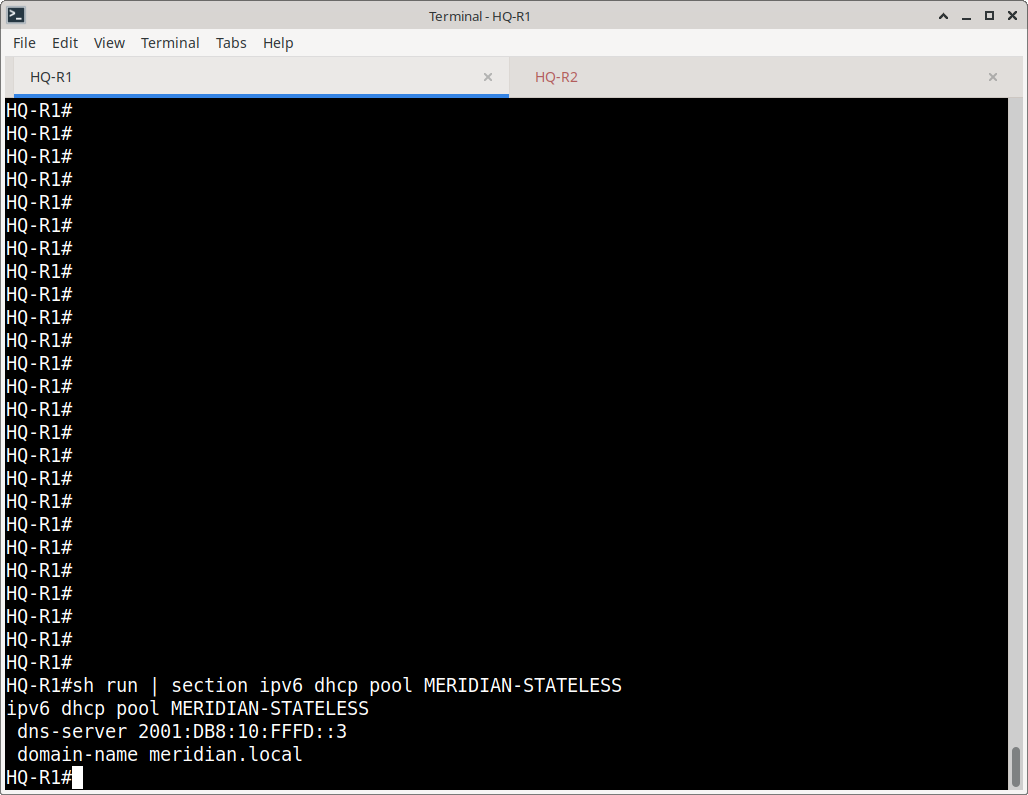
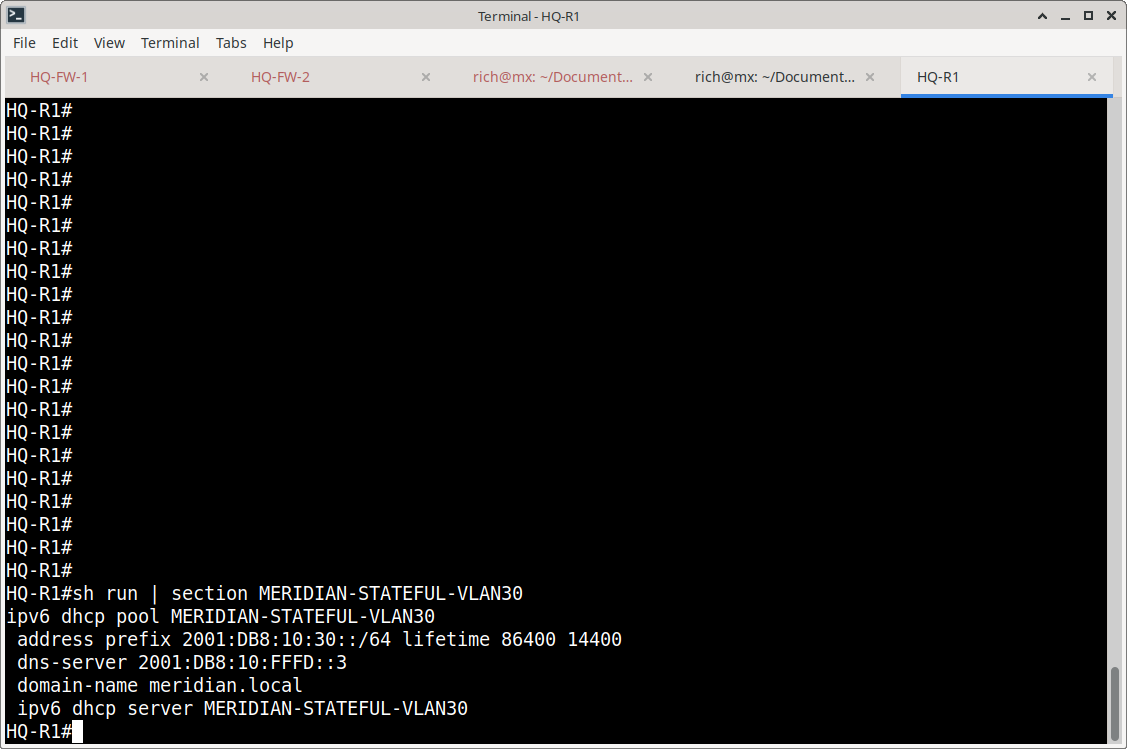
“README”

diff --git a/IPv6 (Dual-Stack)/README.md b/IPv6 (Dual-Stack)/README.md
@@ -1,7 +1,5 @@
 # Meridian Financial Services — Enterprise IPv6 Dual-Stack Implementation
 
-> **Portfolio Lab Project.** This documentation details the manual design, configuration, and troubleshooting of an enterprise-wide IPv6 migration within the fictional "Meridian Financial Services" multi-site topology (PNETLab). 
-
 ## Summary
 
 The objective of this project was to extend Meridian's existing IPv4 enterprise network (HQ, Chicago, Dallas, Miami, and Ashburn DR) to support IPv6 using a dual-stack approach. 
@@ -22,18 +20,18 @@ The implementation spans a multi-region enterprise topology:
 ---
 
 ## What was built
- 
-| Area | Summary | Status |
-|---|---|---|
-| Addressing | Site-coded `/48` per site, `/64` per VLAN, `/128` loopbacks | Working; spreadsheet/Nautobot still to reconcile |
-| OSPFv3 | Process 10, FULL adjacencies on HQ-EDGE-1 and HQ-FW-1; client VLANs passive | Neighbors observed; cross-site reachability to capture |
-| IPv6 HSRP | HQ-R1 (priority 110, preempt) / HQ-R2 on VLANs 10-70, virtual link-local gateways (e.g. `FE80::30` on VLAN 30) | Configured; failover test to capture |
-| SLAAC / RA | RA interval 30s, router lifetime 90s, prefix 86400/14400 on HQ VLANs | Working; packet captures done |
-| Stateless DHCPv6 | `MERIDIAN-STATELESS` on HQ-R1 (O flag): SLAAC address plus DNS/domain via Information-request/Reply | Working; captures done |
-| Stateful DHCPv6 | `MERIDIAN-STATEFUL-VLAN30` on HQ VLAN 30 (M flag, `no-autoconfig`) | Client lease obtained |
-| Branch DHCPv6 relay | VLAN 30 relays to HQ-R1; per-site pools selected by `link-address` | Relay forwarding confirmed; lease end-to-end still to confirm (see troubleshooting) |
-| IPv6 ACL | `MERIDIAN-VLAN30-IN` on VLAN 30 (RA deny, ICMPv6, DHCPv6, HSRP, default deny with logging) | Counters observed |
-| Duplicate Address Detection | Captured and explained | Done |
+
+| Area | Summary |
+|---|---|
+| Addressing | Site-coded `/48` per site, `/64` per VLAN, `/128` loopbacks |
+| OSPFv3 | Process 10, FULL adjacencies on HQ-EDGE-1 and HQ-FW-1; client VLANs passive |
+| IPv6 HSRP | HQ-R1 (priority 110, preempt) / HQ-R2 on VLANs 10-70, virtual link-local gateways (e.g. `FE80::30` on VLAN 30) |
+| SLAAC / RA | RA interval 30s, router lifetime 90s, prefix 86400/14400 on HQ VLANs |
+| Stateless DHCPv6 | `MERIDIAN-STATELESS` on HQ-R1 (O flag): SLAAC address plus DNS/domain via Information-request/Reply |
+| Stateful DHCPv6 | `MERIDIAN-STATEFUL-VLAN30` on HQ VLAN 30 (M flag, `no-autoconfig`) |
+| Branch DHCPv6 relay | VLAN 30 relays to HQ-R1; per-site pools selected by `link-address` |
+| IPv6 ACL | `MERIDIAN-VLAN30-IN` on VLAN 30 (RA deny, ICMPv6, DHCPv6, HSRP, default deny with logging) |
+| Duplicate Address Detection | Captured and explained |
  
 ## Addressing
  
@@ -59,7 +57,7 @@ interface FastEthernet0/0.<VLAN>
 
 **show ipv6 ospf neighbor**
 
-![Automation](screenshots/area-number.png)
+![Automation](screenshots/sh-ospf-neighbor-edge-1.png)
 
 **show ipv6 route**
 
@@ -80,11 +78,11 @@ interface FastEthernet0/0.30
  standby 130 priority 110      ! HQ-R2 uses the default (100)
  standby 130 preempt
 ```
-**HQ-R1**
+**HQ-R1: show standby brief**
 
 ![Automation](screenshots/sh-standby-brief-r1.png)
 
-**HQ-R2**
+**HQ-R2: show standby brief**
 
 ![Automation](screenshots/sh-standby-brief-r2.png)
 
@@ -136,21 +134,21 @@ The M flag plus `no-autoconfig` means clients get addresses from DHCPv6 only, no
 
 **PCAP: RA Details**
 
-![Automation](screenshots/slaac-pcap-details.png)
+![Automation](screenshots/slaac-pcap-ra-details.png)
 
 **Stateless DHCP Configuration**
 
 ![Automation](screenshots/stateless-config-r1.png)
 
-**PC obtains IP via Stateless DHCPv6**
+**PC obtains DNS Server and domain name via Stateless DHCPv6**
 
 ![ipv6](screenshots/stateless-pc-gets-config.png)
 
 **PCAP: Stateless DHCPv6 Information Requests**
 
-![ipv6](screenshots/slaac-pcap-details.png)
+![ipv6](screenshots/stateless-pcap-information-request.png)
 
-**PCAP: Stateless DHCPv6 Information Reply**
+**PCAP: Stateless DHCPv6 Information Reply Details**
 
 ![ipv6](screenshots/stateless-pcap-information-reply.png)
 
@@ -166,9 +164,7 @@ The Wireshark captures show ICMPv6 Type 135 (Neighbor Solicitation) messages sen
 
 **Tip:** The raw packet captures for SLAAC, Stateless DHCPv6, Stateful DHCPv6, and Rogue RA testing are available in the [`pcaps/`](pcaps/) directory of this repository for hands-on Wireshark analysis.
 
-**
-
-### 3. Host Provisioning (SLAAC & DHCPv6)
+### 3. Host Provisioning (DHCPv6)
 
 *   **Stateful DHCPv6:** Configured on HQ VLAN 30. The Managed-config-flag (M-flag) is set, and SLAAC is disabled (`no-autoconfig`), forcing hosts to obtain their IPv6 address entirely from the DHCPv6 server.
 
@@ -184,11 +180,11 @@ The Wireshark captures show ICMPv6 Type 135 (Neighbor Solicitation) messages sen
 
 ![Automation](screenshots/stateful-switch-config.png)
 
-**PC Successfulyl obtains IP via Stateful DHCP**
+**PC Successfully obtains IP via Stateful DHCP**
 
 ![Automation](screenshots/stateful-pc-1-gets-ip.png)
 
-**PCAP: PC Successfulyl obtains IP via Stateful DHCP**
+**PCAP: PC Successfully obtains IP via Stateful DHCP**
 
 ![Automation](screenshots/stateful-pcap-pc-gets-ip.png)
 
@@ -229,16 +225,21 @@ To connect the Meridian network to external providers, a dual-stack BGP implemen
 *   **Dual-Stack Address Families:** BGP is configured with separate `address-family ipv4` and `address-family ipv6` blocks, peering with ISP-A (AS 65001) and ISP-B (AS 65002) over both IPv4 and IPv6 transit links.
 *   **iBGP Peering:** HQ-EDGE-1 and HQ-EDGE-2 establish an iBGP session (AS 65000) using Loopback interfaces for stability, with `next-hop-self` configured for the IPv6 address family to ensure proper reachability.
 *   **Inbound Traffic Engineering:** A route-map (`ISP-A-IN`) is applied to the ISP-A neighbor to set the `local-preference` to 200. This ensures that Meridian prefers ISP-A as the primary exit and entry point for traffic.
-*   **Controlled Redistribution:** External BGP routes are carefully redistributed into the internal OSPF/OSPFv3 domain using a prefix-list (`BGP-TO-OSPF-PREFIX`) and route-map (`FILTER-BGP-INTO-OSPF`) to prevent default routes or unwanted external prefixes from flooding the internal routing table.
 
 ```cisco
 route-map ISP-A-IN permit 10
  set local-preference 200
+ 
+! Applying the route-map 
+neighbor 2001:DB8:200:1:: route-map ISP-A-IN in
 ```
 
 ![ipv6](screenshots/sh-run-section-bgp.png)
 
 ![ipv6](screenshots/sh-bgp-summary.png)
+
+![ipv6](screenshots/sh-ip-bgp.png)
+
 ---
 
 ##  Repository Structure
@@ -247,3 +248,10 @@ route-map ISP-A-IN permit 10
 *   `screenshots/` - Contains all CLI outputs, Wireshark packet captures, and topology diagrams referenced above.
 
 ---
+
+### What's Next?
+
+With the enterprise IPv6 dual-stack implementation fully configured, routed, and secured, the next step is to explore comprehensive network monitoring and proactive alerting.
+
+Continue to the next major module to explore the PRTG implementation:
+- **[PRTG Monitoring](../PRTG-Monitoring/)** – Network sensor configuration, custom dashboards, and proactive alerting.
